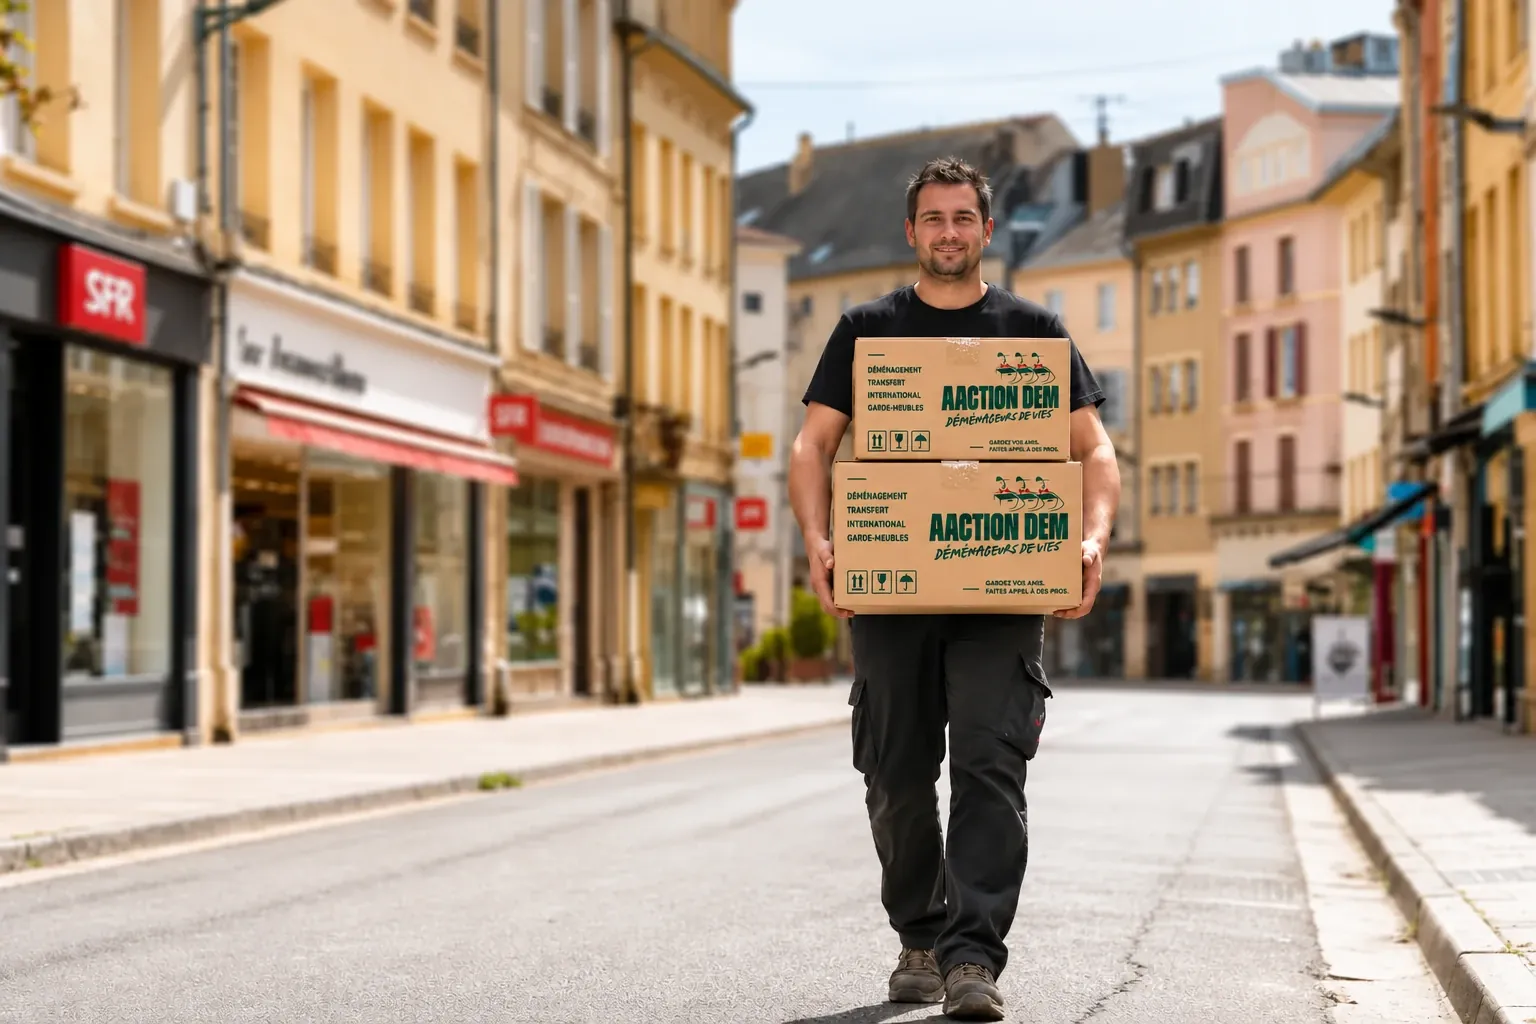
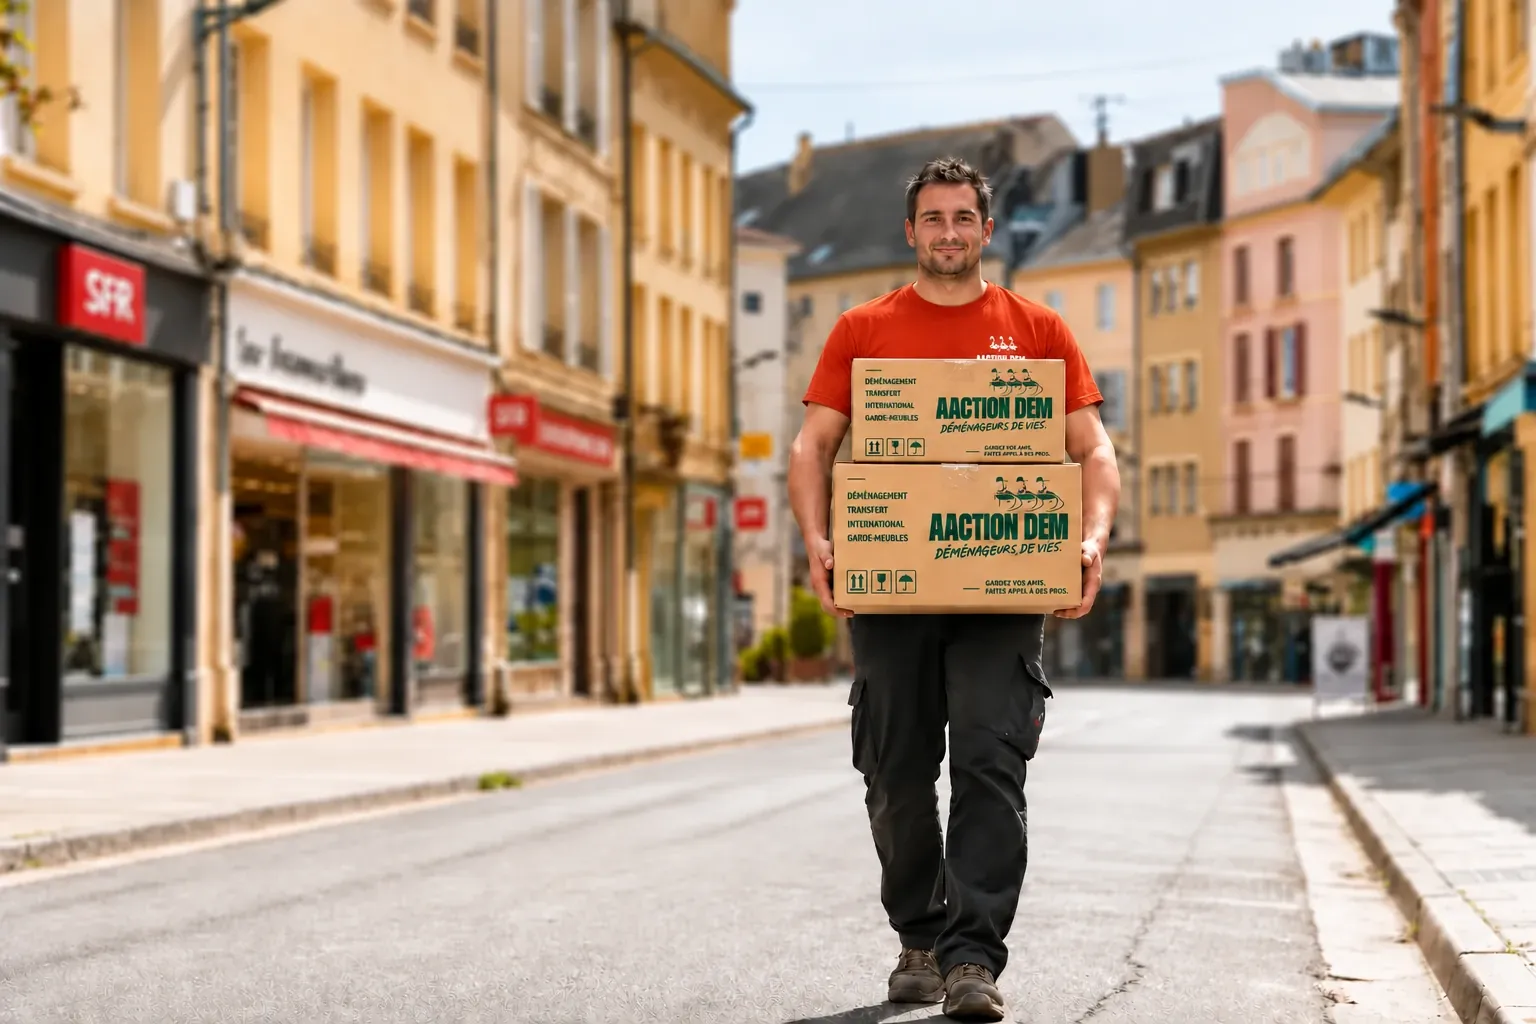
Thionville : photo d'en-tête en t-shirt rouge

diff --git a/scripts/import-site-photos.py b/scripts/import-site-photos.py
@@ -36,7 +36,7 @@ PHOTOS = {
     'famille-demenagement':      ('particulier-hero.webp', None, .5, 1536),
     'demenagement-metz':         ('cd448d_d325539bdac245539ea39928a3faf0fe~mv2.jpg', 3/2, .5, 1536),
     # Hero Thionville : photo fournie (déménageur portant des cartons Aaction Dem dans une rue commerçante)
-    'demenagement-thionville':   ('thionville-hero.webp', None, .5, 1536),
+    'demenagement-thionville':   ('thionville-hero-2026.webp', None, .5, 1536),  # version t-shirt rouge (2026-11)
     'monte-meuble-rue':          ('cd448d_7bf223cebaa545fd83e873f224538df5~mv2.jpeg', 3/2, .35, 1152),
     'longwy-ville-haute':        ('cd448d_3e27363c32344e9abceaad69b3c88fe2~mv2.jpg', 3/2, .5, 1536),
     'dechargement-camion':       ('cd448d_55061cee67704685bfcea6ea1a24a84b~mv2.jpg', 3/2, .5, 1248),
